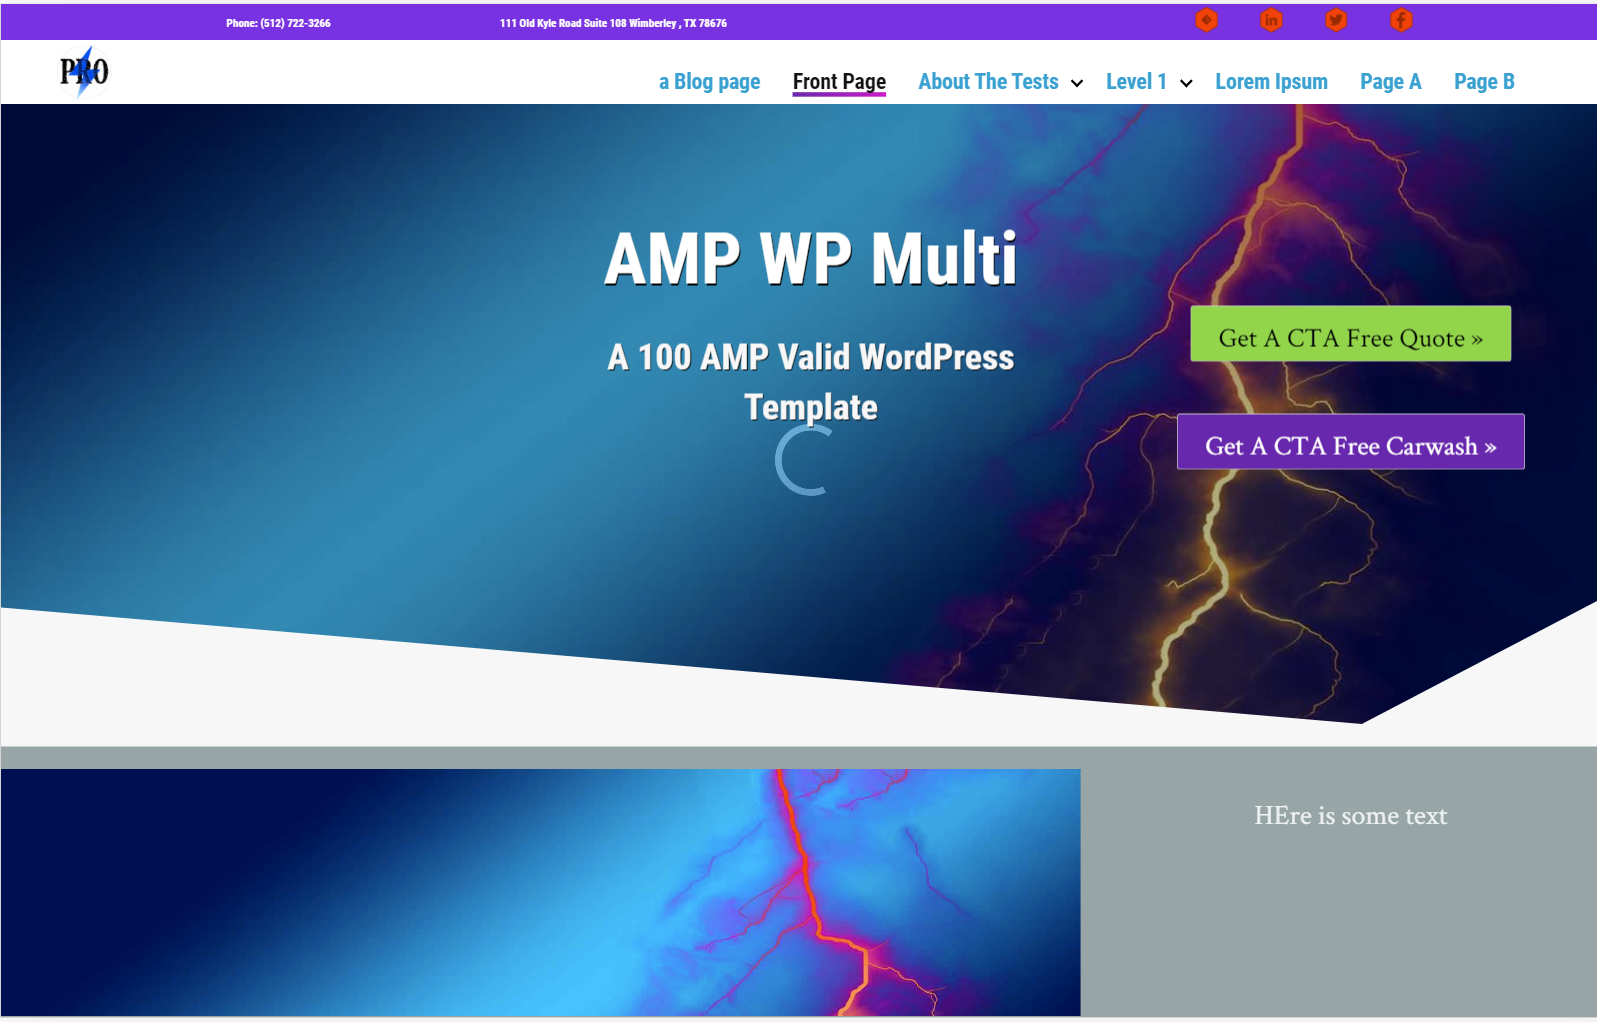
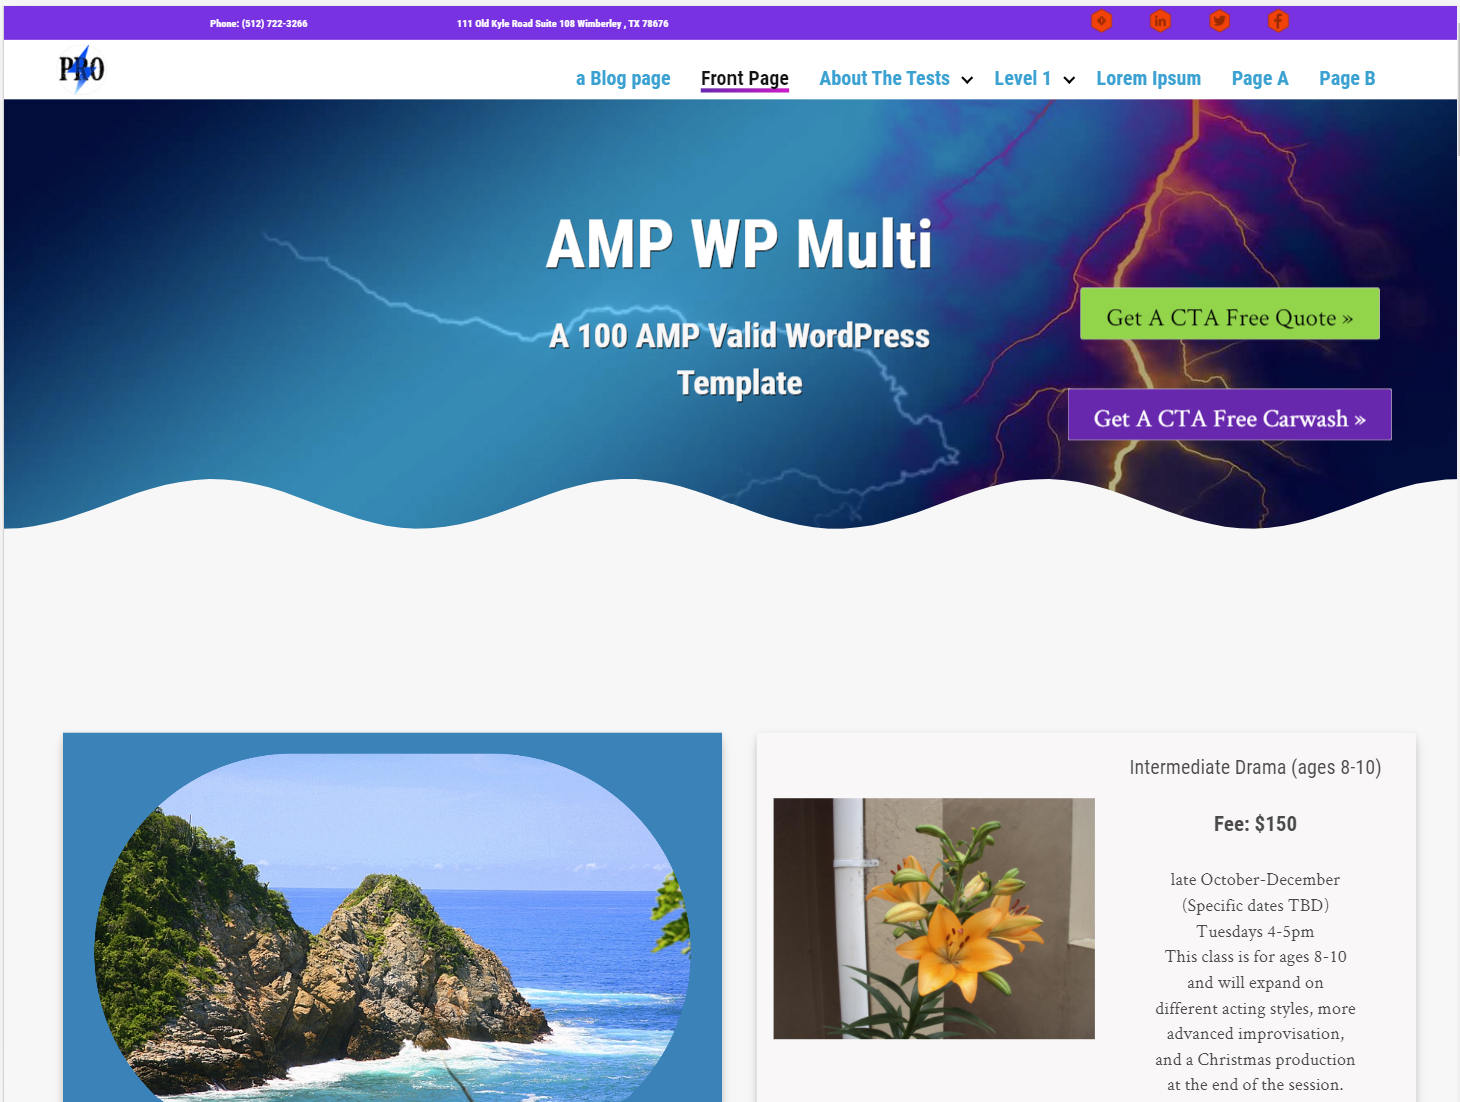
v2.1.6 added lightbox shortcode

diff --git a/assets/css/src/_header.css b/assets/css/src/_header.css
@@ -19,8 +19,8 @@ figure.header-image {
 .header-image.wave {
 
 	@media (--content-query) {
-		clip-path: polygon(100% 0%, 0% 0% , 0% 87.5%, 1% 87.416666666667%, 2% 87.083333333333%, 3% 86.583333333333%, 4% 86%, 5% 85.166666666667%, 6% 84.333333333333%, 7% 83.416666666667%, 8% 82.5%, 9% 81.583333333333%, 10% 80.833333333333%, 11% 80.166666666667%, 12% 79.666666666667%, 13% 79.333333333333%, 14% 79.166666666667%, 15% 79.25%, 16% 79.5%, 17% 80%, 18% 80.583333333333%, 19% 81.333333333333%, 20% 82.25%, 21% 83.166666666667%, 22% 84.083333333333%, 23% 84.916666666667%, 24% 85.75%, 25% 86.416666666667%, 26% 87%, 27% 87.333333333333%, 28% 87.5%, 29% 87.416666666667%, 30% 87.166666666667%, 31% 86.75%, 32% 86.166666666667%, 33% 85.416666666667%, 34% 84.583333333333%, 35% 83.666666666667%, 36% 82.75%, 37% 81.833333333333%, 38% 81%, 39% 80.333333333333%, 40% 79.75%, 41% 79.333333333333%, 42% 79.166666666667%, 43% 79.166666666667%, 44% 79.416666666667%, 45% 79.833333333333%, 46% 80.416666666667%, 47% 81.166666666667%, 48% 82%, 49% 82.916666666667%, 50% 83.833333333333%, 51% 84.75%, 52% 85.583333333333%, 53% 86.25%, 54% 86.833333333333%, 55% 87.25%, 56% 87.5%, 57% 87.5%, 58% 87.25%, 59% 86.916666666667%, 60% 86.333333333333%, 61% 85.583333333333%, 62% 84.833333333333%, 63% 83.916666666667%, 64% 83%, 65% 82.083333333333%, 66% 81.25%, 67% 80.5%, 68% 79.916666666667%, 69% 79.416666666667%, 70% 79.25%, 71% 79.166666666667%, 72% 79.333333333333%, 73% 79.666666666667%, 74% 80.25%, 75% 80.916666666667%, 76% 81.75%, 77% 82.666666666667%, 78% 83.583333333333%, 79% 84.5%, 80% 85.333333333333%, 81% 86.083333333333%, 82% 86.666666666667%, 83% 87.166666666667%, 84% 87.416666666667%, 85% 87.5%, 86% 87.333333333333%, 87% 87%, 88% 86.5%, 89% 85.833333333333%, 90% 85%, 91% 84.166666666667%, 92% 83.25%, 93% 82.333333333333%, 94% 81.416666666667%, 95% 80.666666666667%, 96% 80%, 97% 79.583333333333%, 98% 79.25%, 99% 79.166666666667%, 100% 79.25%);
-		height: 55rem;
+		clip-path: polygon(100% 0%, 0% 0% , 0% 77.777777777778%, 1% 77.703703703704%, 2% 77.407407407407%, 3% 76.962962962963%, 4% 76.444444444444%, 5% 75.703703703704%, 6% 74.962962962963%, 7% 74.148148148148%, 8% 73.333333333333%, 9% 72.518518518519%, 10% 71.851851851852%, 11% 71.259259259259%, 12% 70.814814814815%, 13% 70.518518518519%, 14% 70.37037037037%, 15% 70.444444444444%, 16% 70.666666666667%, 17% 71.111111111111%, 18% 71.62962962963%, 19% 72.296296296296%, 20% 73.111111111111%, 21% 73.925925925926%, 22% 74.740740740741%, 23% 75.481481481481%, 24% 76.222222222222%, 25% 76.814814814815%, 26% 77.333333333333%, 27% 77.62962962963%, 28% 77.777777777778%, 29% 77.703703703704%, 30% 77.481481481481%, 31% 77.111111111111%, 32% 76.592592592593%, 33% 75.925925925926%, 34% 75.185185185185%, 35% 74.37037037037%, 36% 73.555555555556%, 37% 72.740740740741%, 38% 72%, 39% 71.407407407407%, 40% 70.888888888889%, 41% 70.518518518519%, 42% 70.37037037037%, 43% 70.37037037037%, 44% 70.592592592593%, 45% 70.962962962963%, 46% 71.481481481481%, 47% 72.148148148148%, 48% 72.888888888889%, 49% 73.703703703704%, 50% 74.518518518519%, 51% 75.333333333333%, 52% 76.074074074074%, 53% 76.666666666667%, 54% 77.185185185185%, 55% 77.555555555556%, 56% 77.777777777778%, 57% 77.777777777778%, 58% 77.555555555556%, 59% 77.259259259259%, 60% 76.740740740741%, 61% 76.074074074074%, 62% 75.407407407407%, 63% 74.592592592593%, 64% 73.777777777778%, 65% 72.962962962963%, 66% 72.222222222222%, 67% 71.555555555556%, 68% 71.037037037037%, 69% 70.592592592593%, 70% 70.444444444444%, 71% 70.37037037037%, 72% 70.518518518519%, 73% 70.814814814815%, 74% 71.333333333333%, 75% 71.925925925926%, 76% 72.666666666667%, 77% 73.481481481481%, 78% 74.296296296296%, 79% 75.111111111111%, 80% 75.851851851852%, 81% 76.518518518519%, 82% 77.037037037037%, 83% 77.481481481481%, 84% 77.703703703704%, 85% 77.777777777778%, 86% 77.62962962963%, 87% 77.333333333333%, 88% 76.888888888889%, 89% 76.296296296296%, 90% 75.555555555556%, 91% 74.814814814815%, 92% 74%, 93% 73.185185185185%, 94% 72.37037037037%, 95% 71.703703703704%, 96% 71.111111111111%, 97% 70.740740740741%, 98% 70.444444444444%, 99% 70.37037037037%, 100% 70.444444444444%);
+		height: 40rem;
 		display: grid;
 		& img {
 		display: block;
@@ -50,7 +50,8 @@ figure.header-image {
 .header-image {
 
 	@media (--content-query) {
-
+		height: 40rem;
+		display: grid;
 & amp-img.amp-wp-enforced-sizes[layout=intrinsic]>img {
 	object-fit: cover;
 	height: 40rem;

diff --git a/style.css b/style.css
@@ -4,7 +4,7 @@ Theme URI: https://github.com/austintude/amp-wp-template-multi
 Author: Daniel Bisett
 Author URI: https://github.com/austintude/
 Description: A progressive theme development rig for AMP WordPress Multi Template.
-Version: 2.1.5
+Version: 2.1.6
 License: GNU General Public License v3.0 (or later)
 License URI: https://www.gnu.org/licenses/gpl-3.0.html
 Text Domain: wp-rig

diff --git a/assets/css/src/_lightbox.css b/assets/css/src/_lightbox.css
@@ -2,7 +2,8 @@
     background: rgba(0,0,0,.9);
     width: 100%;
     height: 100%;
-    position: absolute;
+	position: absolute;
+	top: 0;
     display: flex;
     align-items: center;
 	justify-content: center;

diff --git a/custom-shortcodes.php b/custom-shortcodes.php
@@ -59,4 +59,57 @@ function ampfxwrapper_function( $atts = array(), $ampfxwrappercontent = null ) {
 	}
 	add_shortcode('ampfxwrapper', 'ampfxwrapper_function');
 
+function lightbox_function( $atts = array(), $lightboxcontent = null ) {
+	// set up default parameters
+	extract(shortcode_atts(array(
+		'id' => ''
+		), $atts));
+		return "<amp-lightbox id=\"my-lightbox-$id\" layout=\"nodisplay\">" . do_shortcode($lightboxcontent) . ' </amp-lightbox>';
+	}
+	add_shortcode('lightbox', 'lightbox_function');
+
+function lightboxitem_function( $atts = array(), $lightboxitemcontent = null ) {
+	// set up default parameters
+	extract(shortcode_atts(array(
+		'id' => ''
+		), $atts));
+		return "<div class=\"lightbox\" on=\"tap:my-lightbox-$id.close\" role=\"button\" tabindex=\"0\">" . do_shortcode($lightboxitemcontent) . '</div>';
+	}
+	add_shortcode('lightboxitem', 'lightboxitem_function');
+
+
+function lightboxbutton_function( $atts = array(), $lightboxbuttoncontent = null ) {
+	// set up default parameters
+	extract(shortcode_atts(array(
+		'id' => '',
+		'styles' => '',
+		'classes' => '',
+		'divclasses' => '',
+		'divstyles' => ''
+		), $atts));
+		return "<div class=\"$divclasses\" style=\"$divstyles\"><button on=\"tap:my-lightbox-$id\" class=\"$classes\" style=\"$styles\">" . do_shortcode($lightboxbuttoncontent) . '</button></div>';
+	}
+	add_shortcode('lightboxbutton', 'lightboxbutton_function');
+
+
+	remove_filter('the_content', 'wpautop');
+remove_filter('the_content', 'wptexturize');
+
+function remove_auto_p_in_shortcode_formatter($content) {
+	$new_content = '';
+	$pattern_full = '{(\[raw\].*?\[/raw\])}is';
+	$pattern_contents = '{\[raw\](.*?)\[/raw\]}is';
+	$pieces = preg_split($pattern_full, $content, -1, PREG_SPLIT_DELIM_CAPTURE);
+
+	foreach ($pieces as $piece) {
+		if (preg_match($pattern_contents, $piece, $matches)) {
+			$new_content .= $matches[1];
+		} else {
+			$new_content .= wptexturize(wpautop($piece));
+		}
+	}
+	return $new_content;
+}
+
+add_filter('the_content', 'remove_auto_p_in_shortcode_formatter', 99);
 ?>

diff --git a/functions.php b/functions.php
@@ -62,14 +62,7 @@ if ( file_exists( get_template_directory() . '/vendor/autoload.php' ) ) {
 // Load the `wp_rig()` entry point function.
 require get_template_directory() . '/inc/functions.php';
 
-// Initialize the theme.
-call_user_func( 'WP_Rig\WP_Rig\wp_rig' );
-
-
-remove_filter('the_content', 'wpautop');
-remove_filter('the_content', 'wptexturize');
-
-function remove_auto_p_in_shortcode_formatter($content) {
+function remove_auto_p_in_shortcode_formatter_again($content) {
 	$new_content = '';
 	$pattern_full = '{(\[raw\].*?\[/raw\])}is';
 	$pattern_contents = '{\[raw\](.*?)\[/raw\]}is';
@@ -85,4 +78,7 @@ function remove_auto_p_in_shortcode_formatter($content) {
 	return $new_content;
 }
 
-add_filter('the_content', 'remove_auto_p_in_shortcode_formatter', 99);
+add_filter('the_content', 'remove_auto_p_in_shortcode_formatter_again', 99);
+
+// Initialize the theme.
+call_user_func( 'WP_Rig\WP_Rig\wp_rig' );

diff --git a/template-parts/header/custom_page-header.php b/template-parts/header/custom_page-header.php
@@ -16,9 +16,11 @@ if ( ! has_header_image() ) {
 <figure class="header-image no_clip heroImage<?php echo get_theme_mod( 'hero_placement_select'); ?>">
 
 <?php }
+elseif ( get_theme_mod( 'hero_clip_select') < 6 )  : { ?>
+<figure class="header-image wave heroImage<?php echo get_theme_mod( 'hero_placement_select'); ?>">
+<?php }
 else : ?>
-<figure class="header-image heroImage<?php echo get_theme_mod( 'hero_placement_select'); ?>">
-
+<figure class="header-image polygon heroImage<?php echo get_theme_mod( 'hero_placement_select'); ?>">
 	<?php  ?>
 	<?php endif; ?>
 

diff --git a/template-parts/header/custom_post-header.php b/template-parts/header/custom_post-header.php
@@ -16,9 +16,11 @@ if ( ! has_header_image() ) {
 <figure class="header-image no_clip heroImage<?php echo get_theme_mod( 'hero_placement_select'); ?>">
 
 <?php }
+elseif ( get_theme_mod( 'hero_clip_select') < 6 )  : { ?>
+<figure class="header-image wave heroImage<?php echo get_theme_mod( 'hero_placement_select'); ?>">
+<?php }
 else : ?>
-<figure class="header-image heroImage<?php echo get_theme_mod( 'hero_placement_select'); ?>">
-
+<figure class="header-image polygon heroImage<?php echo get_theme_mod( 'hero_placement_select'); ?>">
 	<?php  ?>
 	<?php endif; ?>
 

diff --git a/inc/functions.php b/inc/functions.php
@@ -23,6 +23,7 @@ function wp_rig() : Template_Tags {
 	}
 
 	return $theme->template_tags();
+
 }
 
 
